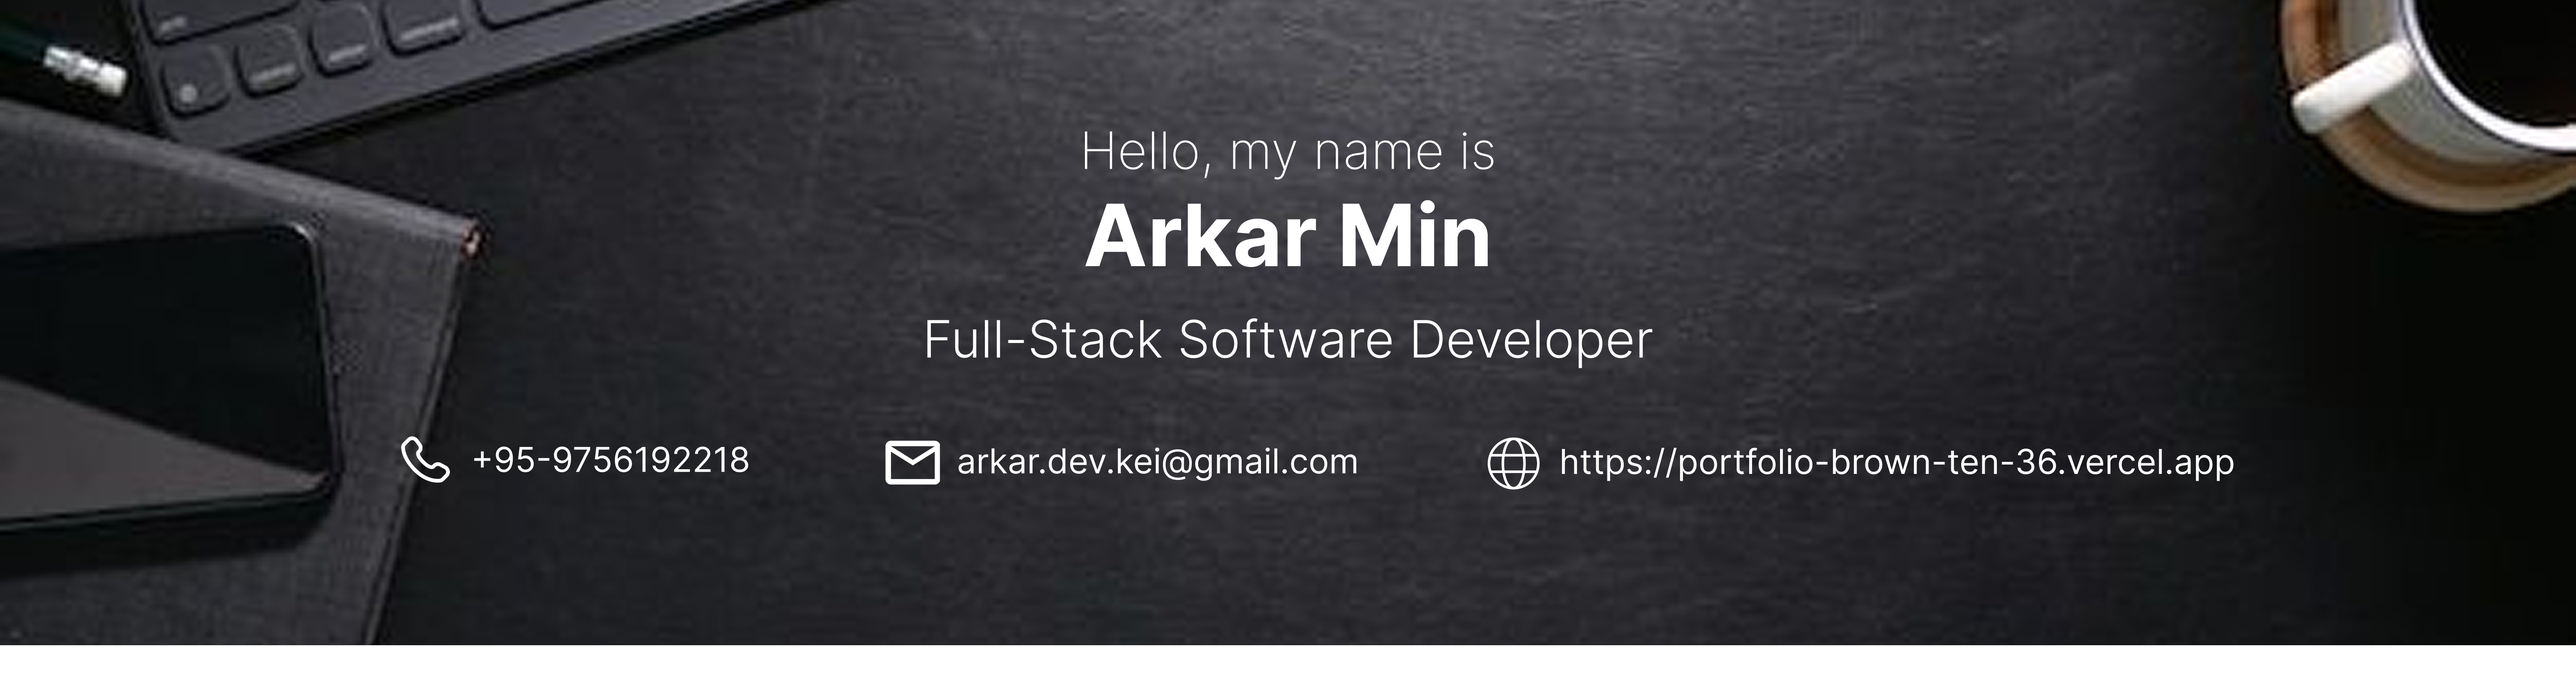
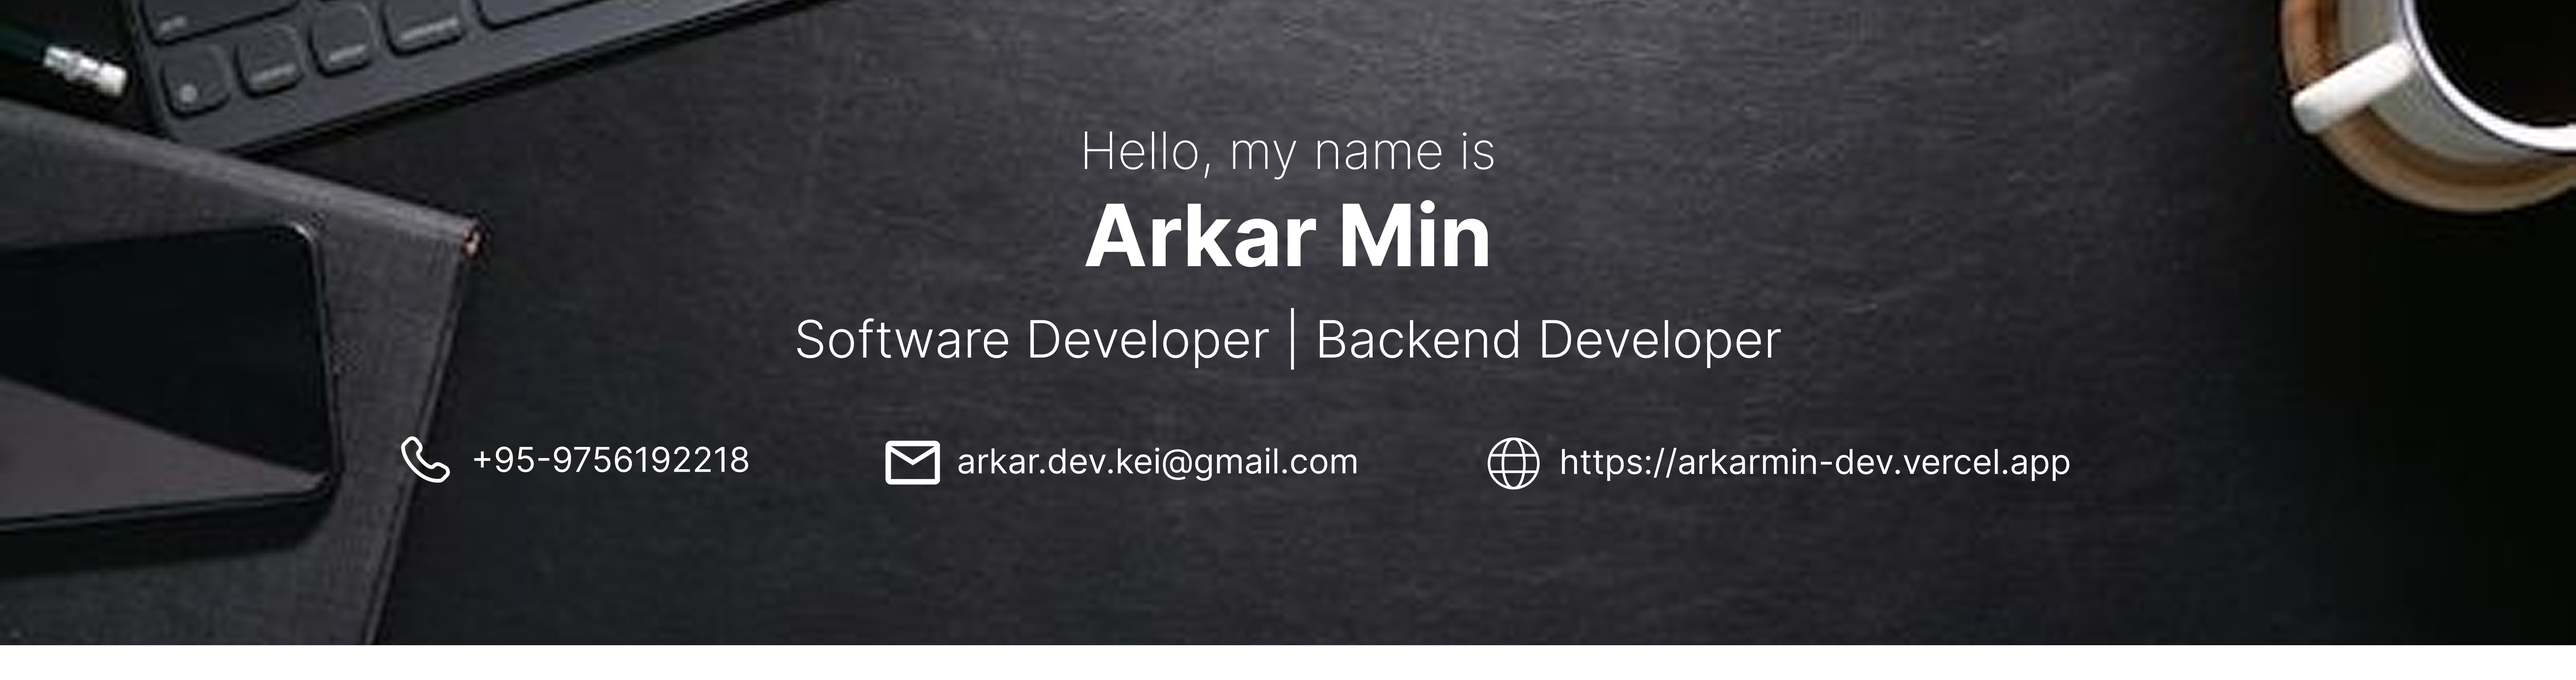
update image and url

Changed region(s): [[0.3117, 0.464, 0.6857, 0.5259], [0.6545, 0.6496, 0.8727, 0.7115]]

diff --git a/src/lib/constants.ts b/src/lib/constants.ts
@@ -1,4 +1,4 @@
 export const LINKS = {
   RESUME:
-    "https://drive.google.com/file/d/15rwpr9iAsTm4wYJQbm6yUNSPJKwMy4h_/view?usp=sharing",
+    "https://drive.google.com/file/d/1vBJguVJ-BR1xSZTtTxlaPXWUcCzuxPw3/view?usp=sharing",
 };
